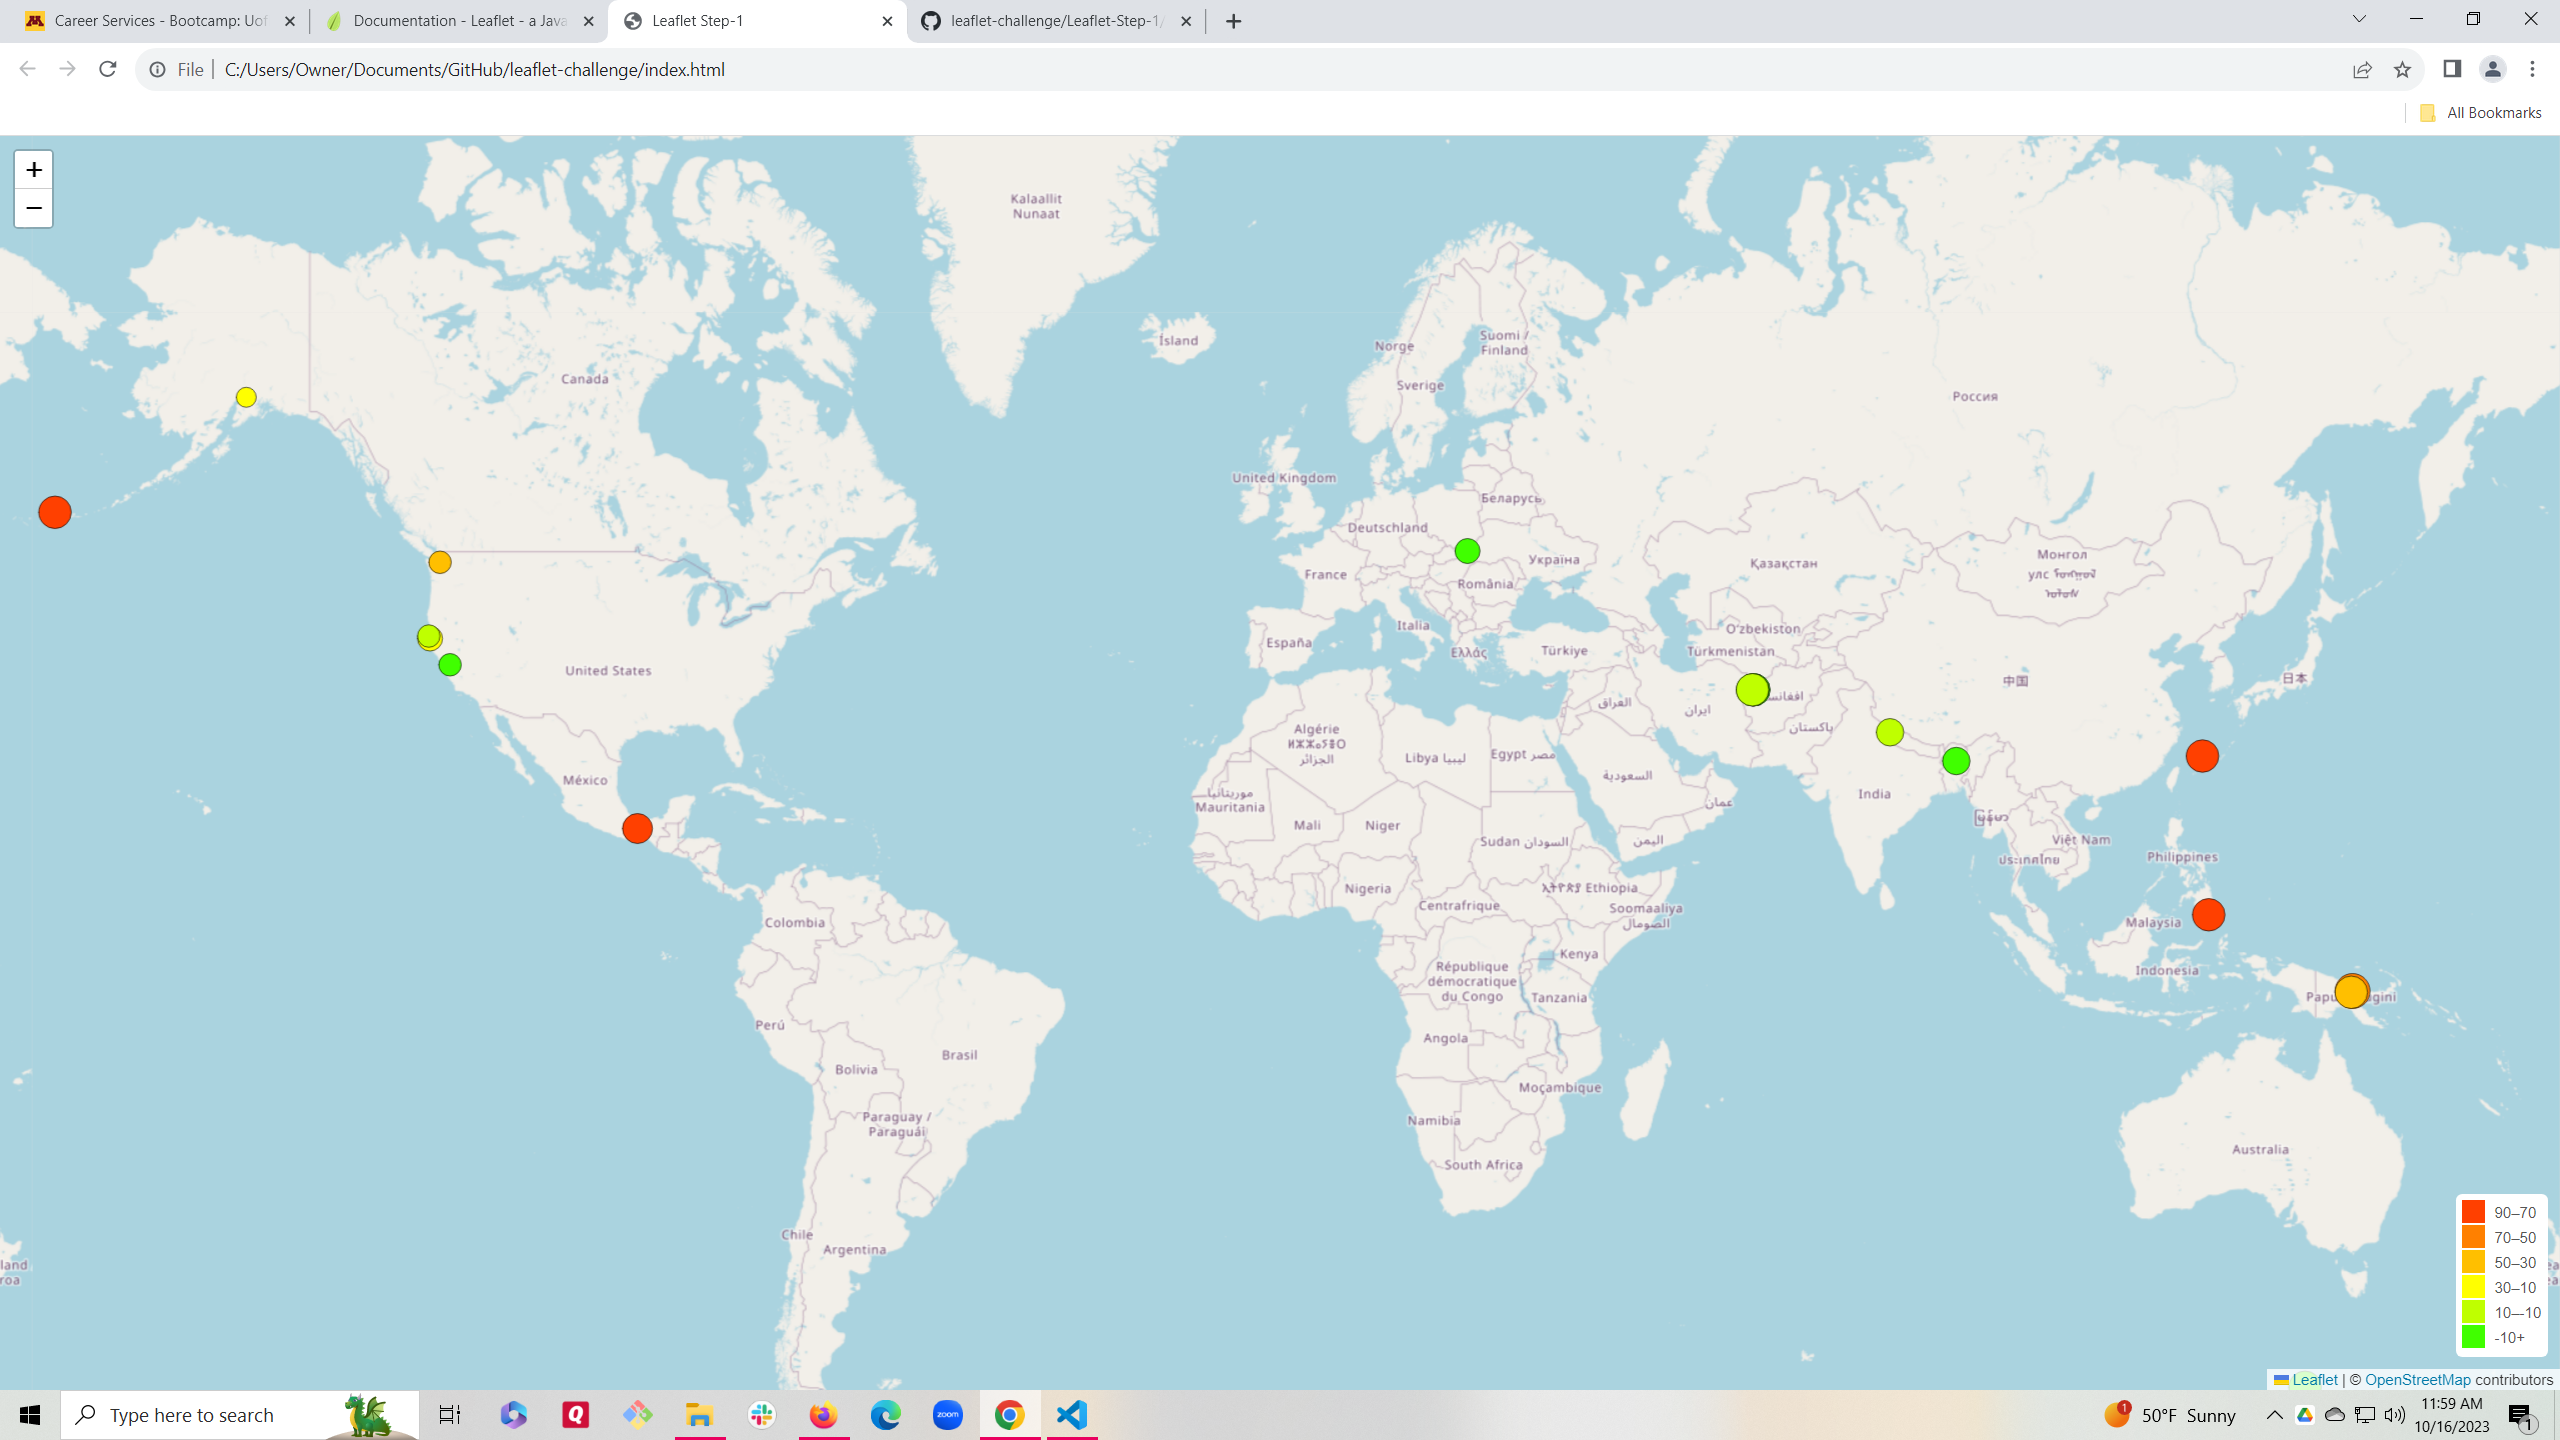
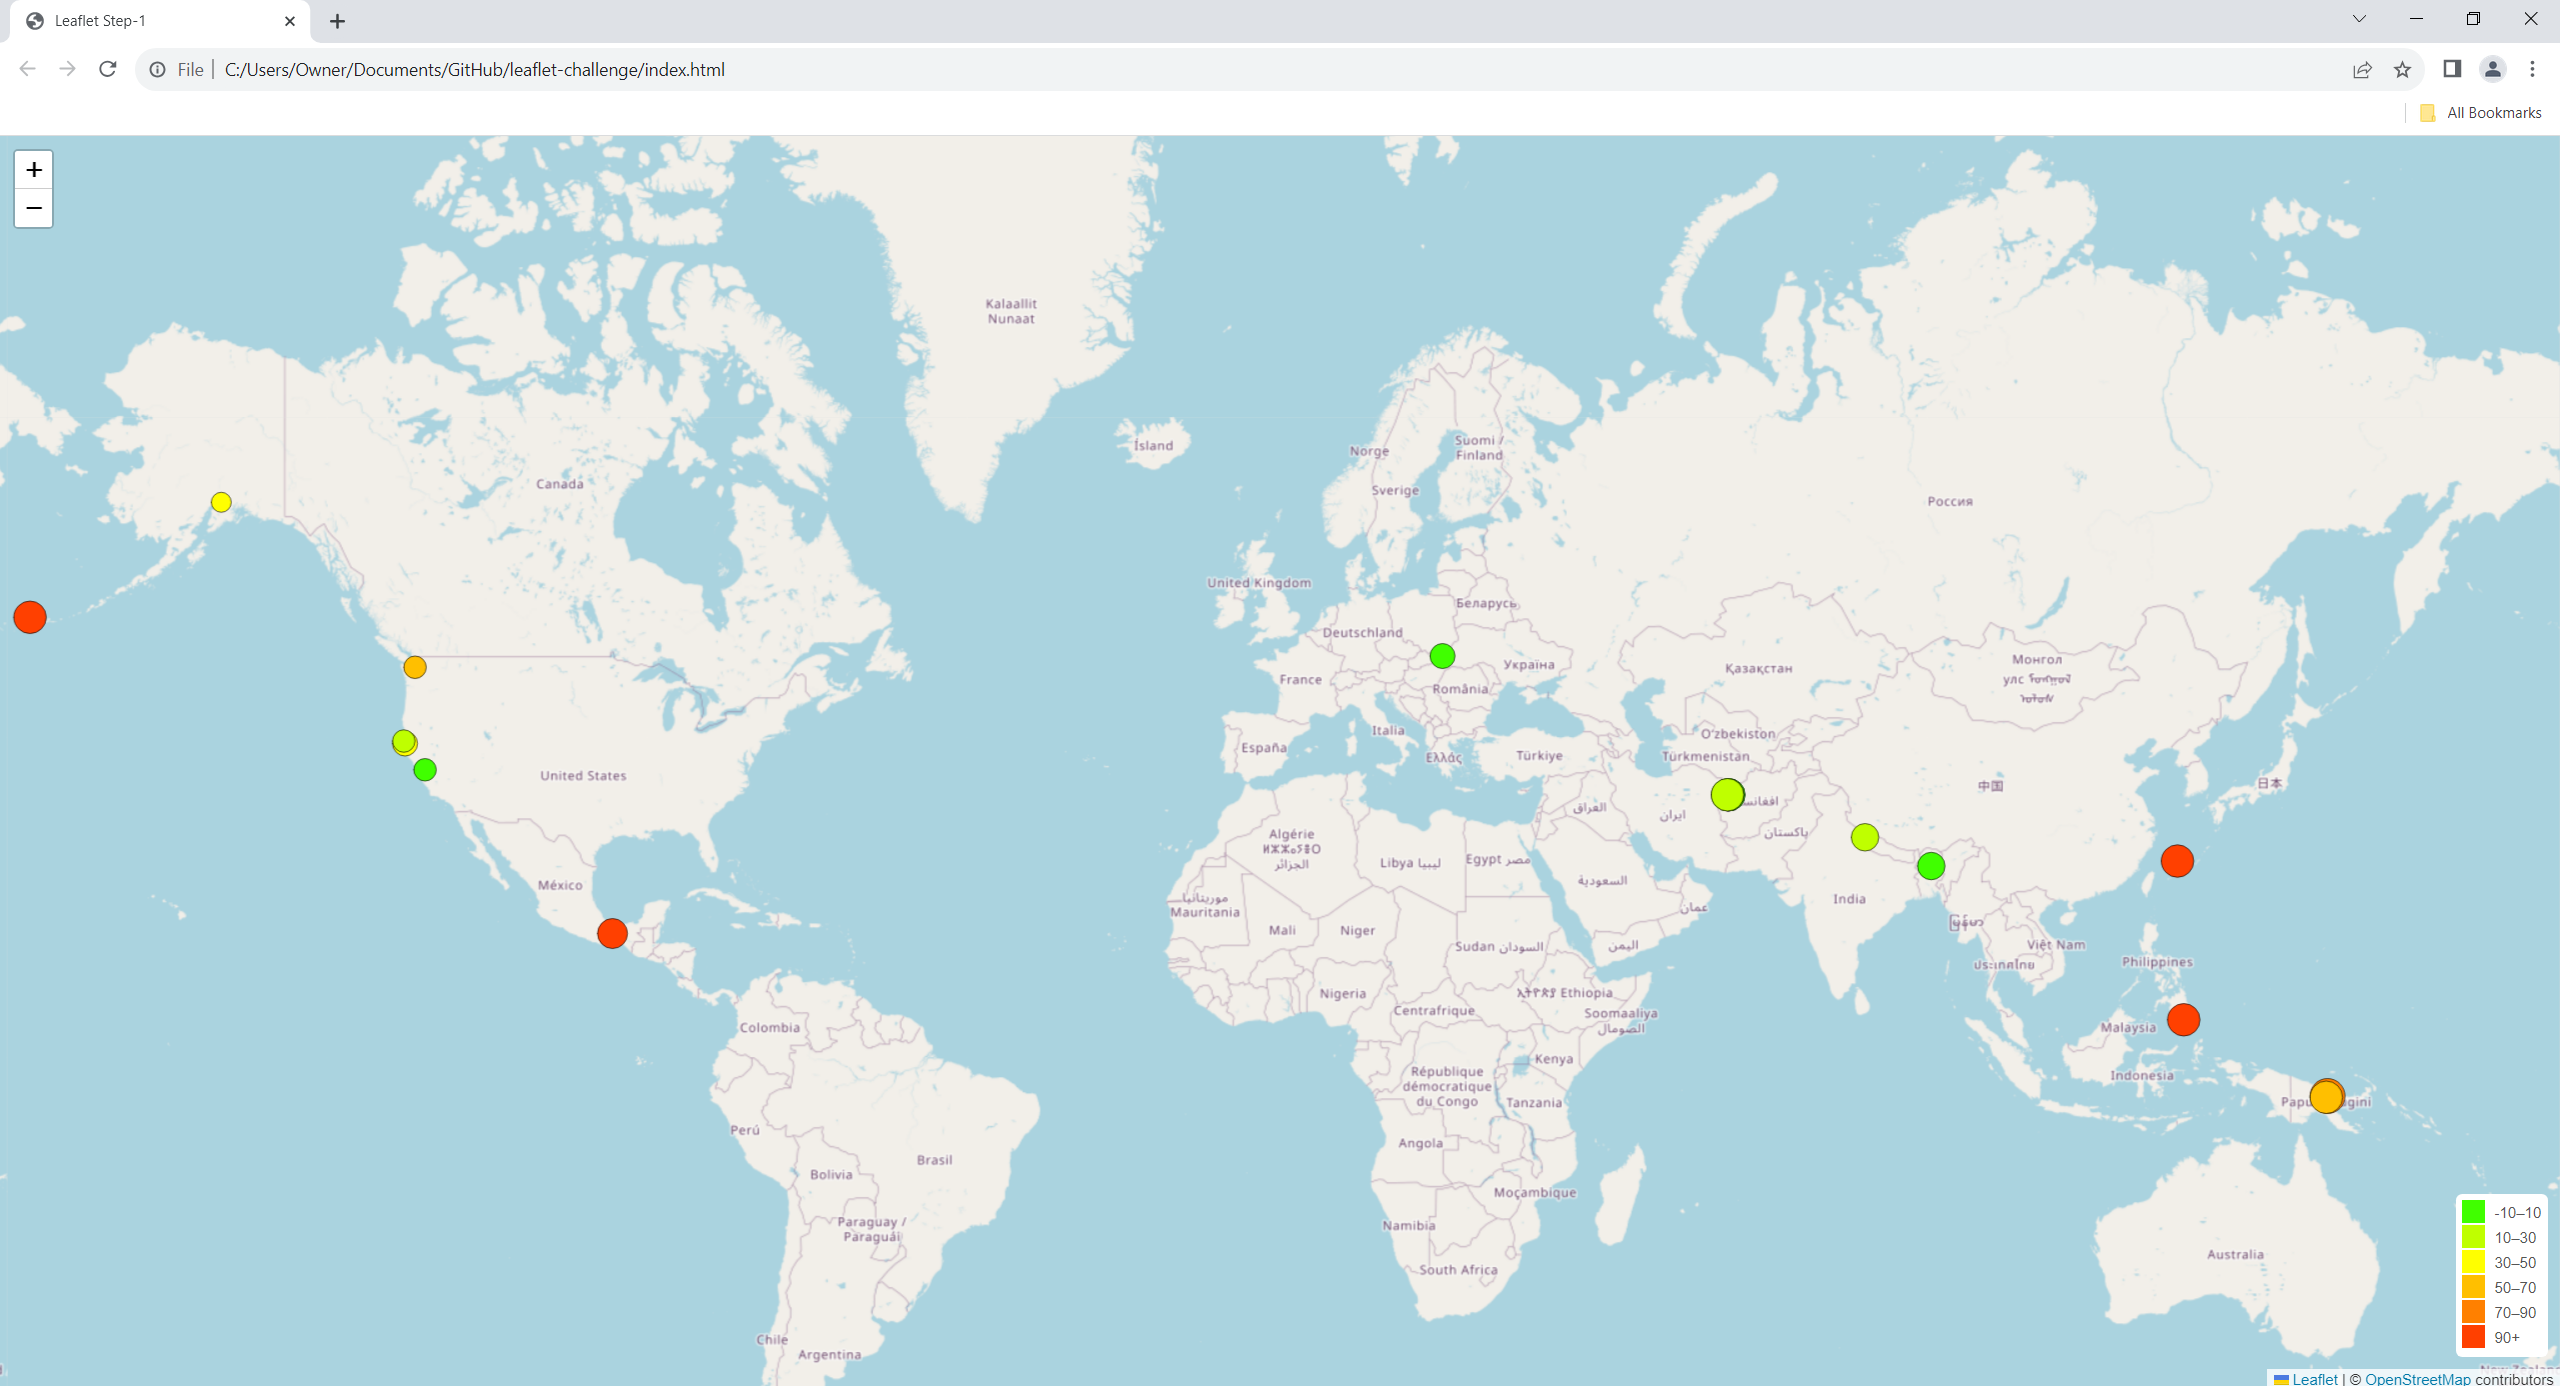
submit
submit

diff --git a/Leaflet_Part_1/static/js/leaflet_part_1_logic.js b/Leaflet_Part_1/static/js/leaflet_part_1_logic.js
@@ -81,14 +81,14 @@ let legend = L.control({position: 'bottomright'});
 
 legend.onAdd = function () {
     let div = L.DomUtil.create('div', 'info legend');
-    let x = [90, 70, 50, 30, 10, -10];
+    let x = [-10, 10, 30, 50, 70, 90];
     let y = [
-      '#ff4000',
-      '#ff8000',
-      '#ffbf00',
-      '#ffff00',
+      '#40ff00',
       '#bfff00',
-      '#40ff00'
+      '#ffff00',
+      '#ffbf00',
+      '#ff8000',
+      '#ff4000'           
     ];
 
     for (let i = 0; i < x.length; i++) {

diff --git a/README.md b/README.md
@@ -1,34 +1,33 @@
 # leaflet-challenge. Week 15 Assignment
 Dashboard link: https://naseemao.github.io/leaflet-challenge/
-
 GitHub link: https://github.com/NaseemaO/leaflet-challenge.git
 
 ## Overview: 
-Interactive Dashboard created that shows the Significant Earthquakes around the world over a period of 30 days period: 09/11/23-10/11/23/ 
+Interactive Dashboard created that shows the Significant Earthquakes around the world over a period of 30 days period: 09/11/23-10/11/23.
 The Magnitude of the earthquakes are indicated by the size of the circle. Earthquakes with higher magnitudes appear larger.   
 The depth of the earthquake is indicated by color and depth of the color. Earthquakes with greater depth should appear darker in color.
 
 ### Legend on the map: (See picture attached, and in the GitHub images folder)
-    red for 90+ magnitude, 
-    orange for 70-90, 
-    light orange for 50-70, 
-    yellow #ffff00 for 30-50, 
-    lime for 10-30, 
-    bright green for -10 - 10. 
+    red: magnitude >90 
+    orange: 70-90, 
+    light orange: 50-70, 
+    yellow: 30-50, 
+    lime: 10-30, 
+    bright green: < 10 
 
 ### Information Pop-Up Box: (See picture attached, and in the GitHub images folder)
-Click on a circle (an earthquake) to see: 
-    Location: Poland-Slovakia border region
-    Date: Mon Oct 09 2023 13:23:09 GMT-0500 (Central Daylight Time)
-    Magnitude: 5
-    Coordinates: 49.0862, 21.7825
-    Depth: 8.273
+    Click on a circle (an earthquake) to see: 
+    Location: 
+    Date: GMT-0500 (Central Daylight Time),
+    Magnitude: 
+    Coordinates: Latitude, Longitude
+    Depth: 
 
 ### Earthquake data obtained from: https://earthquake.usgs.gov/earthquakes/feed/v1.0/geojson.php
 
-###Programs used to create dashboard: html, javascript, css, leaflet. 
+### Programs used to create dashboard: html, javascript, css, leaflet. 
 
-###Leaflet-challenge directory cotains: 
+### Leaflet-challenge directory cotains: 
     css and js code files in Static folder: located in the GitHub directory: https://github.com/NaseemaO/leaflet-challenge/tree/main/Leaflet_Part_1/static 
     Images folder: Pictures of visualizations
     Resources: Data files significant_month.geojson and earthquake_source_data_format.docx https://github.com/NaseemaO/leaflet-challenge/tree/main/Resources
